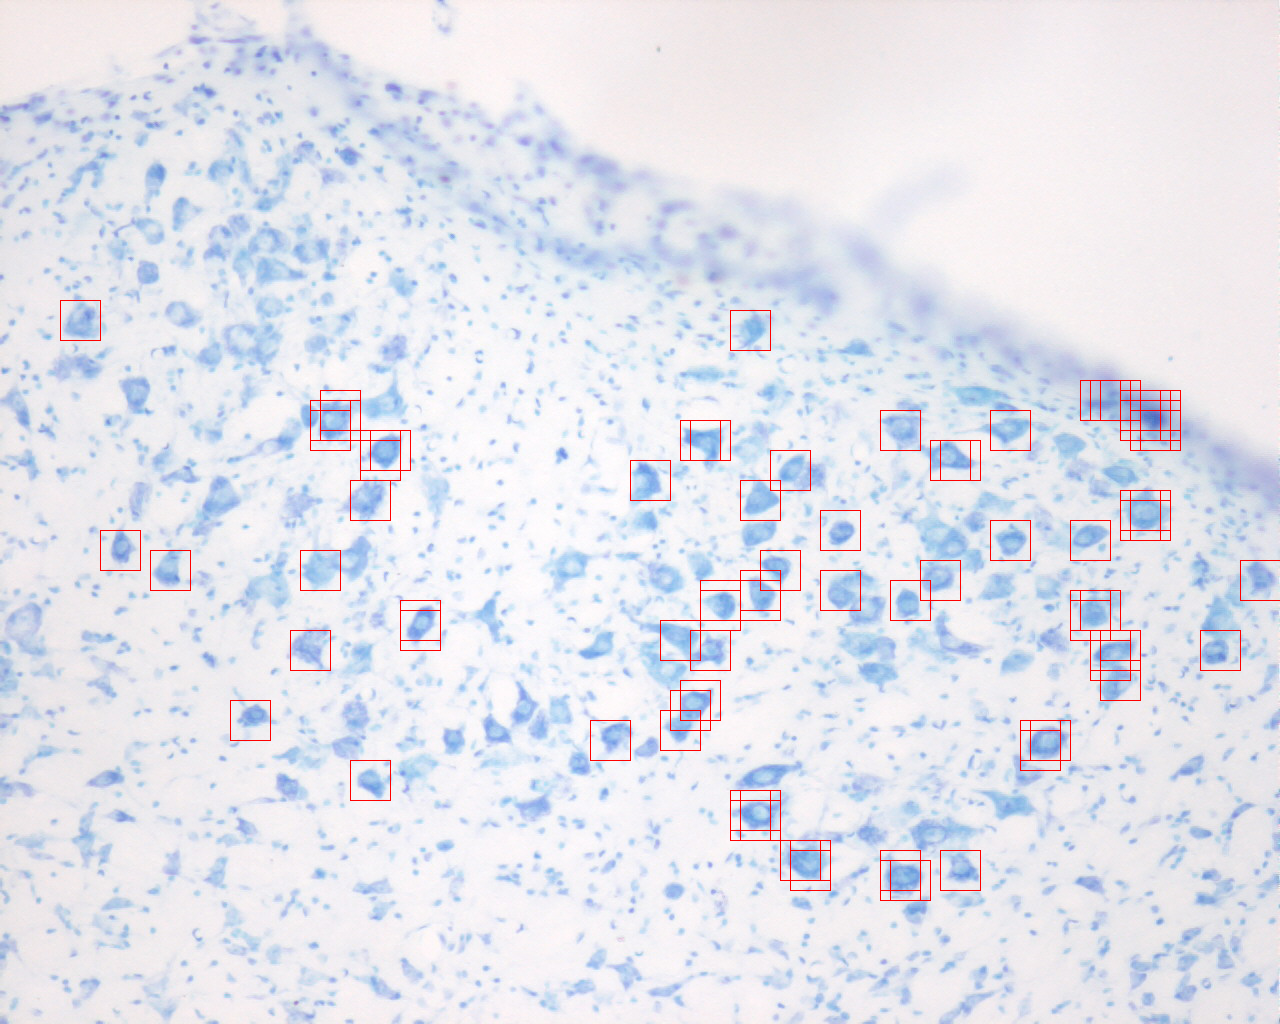
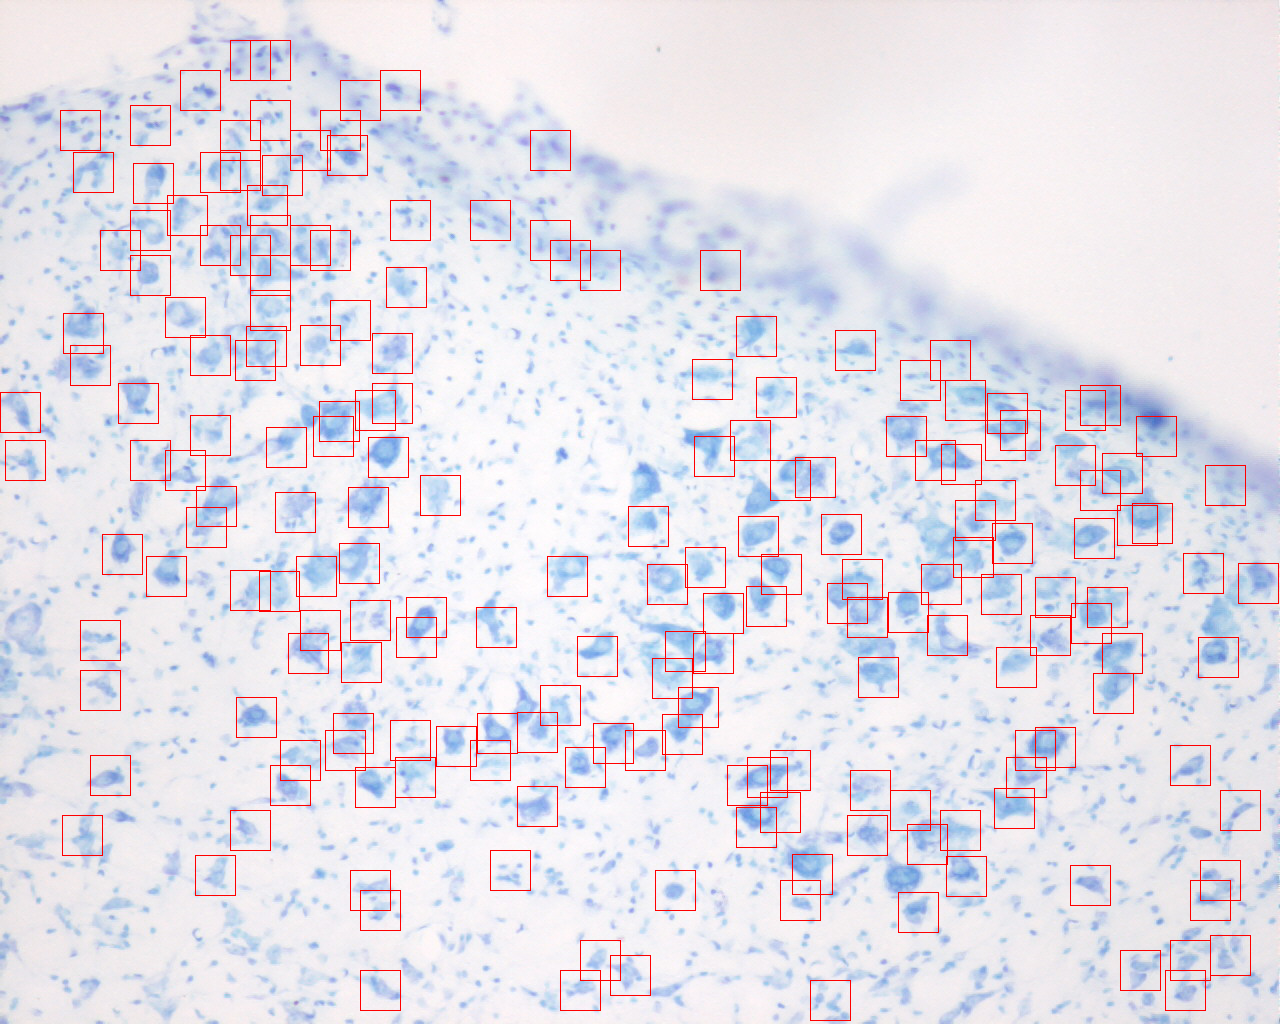
working on a deeper model

diff --git a/image_utils.py b/image_utils.py
@@ -185,6 +185,8 @@ def distances(points1,points2):
 
 
 def filter_rectangles(rectangles,distmin):
+    if rectangles.shape[0]==0:
+        return rectangles
     result=rectangles[0,:].reshape((1,4))
     rectangles = rectangles[1:, :]
     while rectangles.shape[0]>0:
@@ -198,6 +200,9 @@ def filter_rectangles(rectangles,distmin):
         if current_distances[arg_dist_min]>=distmin:
             #Simple version of algorithm, first rectangle wins
             result=np.concatenate((result,current),axis=0)
+        else:
+            for i in range(4):
+                result[arg_dist_min,i]=(result[arg_dist_min,i]+current[0,i])/2
     return result
 
 
